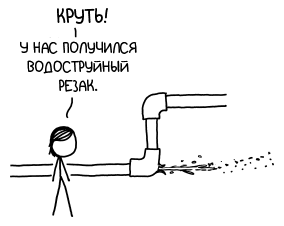
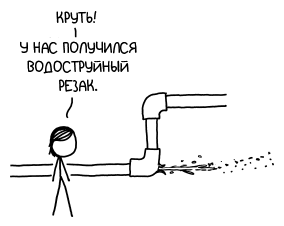
Image and formula fix in Niagara Straw

Changed region(s): [[0.1972, 0.031, 0.3944, 0.1239]]

diff --git a/content/what-if/147-niagara-straw.md b/content/what-if/147-niagara-straw.md
@@ -51,7 +51,7 @@ Image: https://chtoes.li/uploads/147-niagara-straw/front.png
 
 Диаметр типичной соломинки&nbsp;— около 7&nbsp;мм. Чтобы узнать, как быстро потечет вода, нужно разделить расход воды на площадь отверстия. Если полученная скорость превысит звуковую, наш поток скорее всего застопорится, а мы столкнемся с проблемами.
 
-$$ \frac{2 830\text{ }\tfrac{\text{м³}}{\text{с}}}{\pi\left ( \tfrac{7\text{ мм}}{2} \right )^2}=73 600 000\text{ }\tfrac{\text{м}}{\text{с}}= 0,25 c $$
+$$ \frac{2\,830\;\tfrac{\text{м}^3}{\text{с}}}{\pi\left(\tfrac{7\;\text{мм}}{2}\right)^2} \approx 73\,600\,000\;\tfrac{\text{м}}{\text{с}} \approx 0{,}25 c $$
 
 Получается, наша вода потечет со скоростью в четверть *световой*.
 
